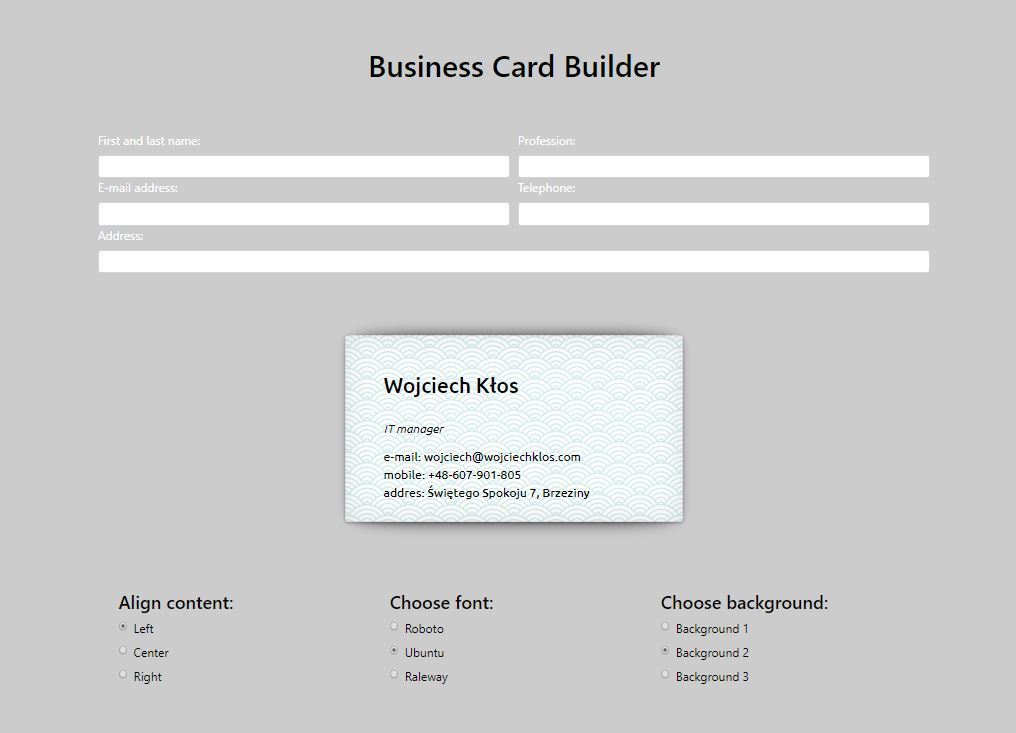
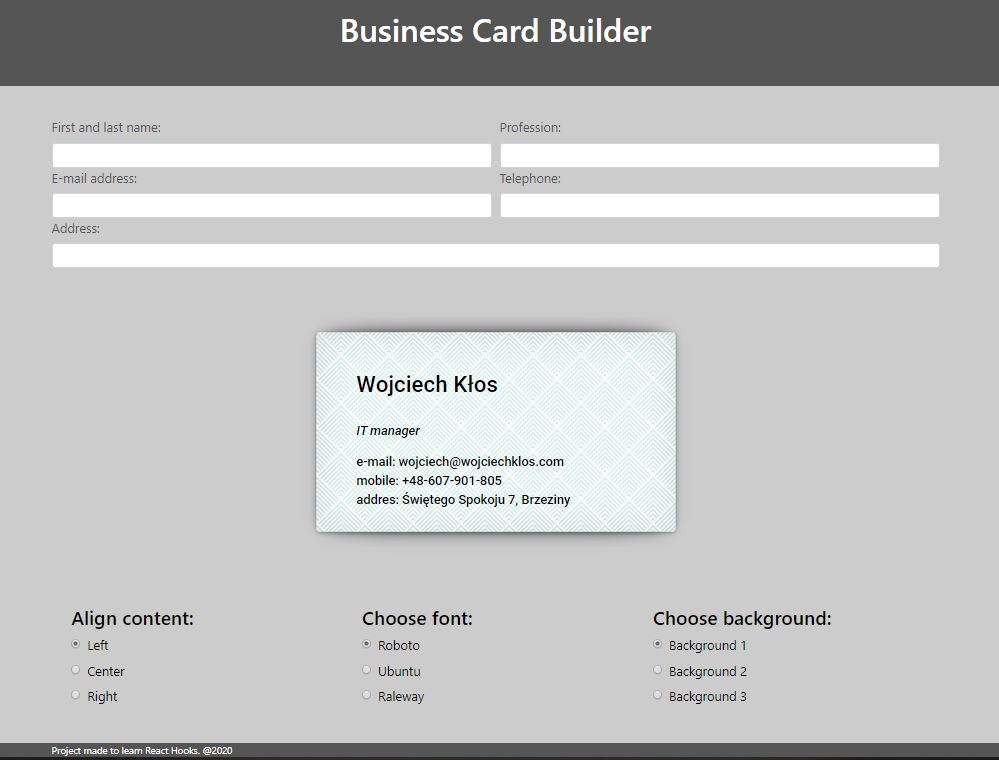
"added footer"

diff --git a/src/components/App.js b/src/components/App.js
@@ -1,25 +1,21 @@
-import React from 'react';
-import Store from './Store'
+import React from "react";
+import Store from "./Store";
 import Card from "./Card";
 import UserForm from "./UserForm";
-import HeaderApp from "./HeaderApp";
-
-
+import AppHeader from "./AppHeader";
+import AppFooter from "./AppFooter";
 
 class App extends React.Component {
-
-
-    render() {
-        return (
-
-            <Store>
-                <HeaderApp/>
-                <UserForm/>
-                <Card/>
-            </Store>
-        );
-    }
+  render() {
+    return (
+      <Store>
+        <AppHeader />
+        <UserForm />
+        <Card />
+        <AppFooter />
+      </Store>
+    );
+  }
 }
 
 export default App;
-

diff --git a/src/index.css b/src/index.css
@@ -6,7 +6,7 @@ body {
     -webkit-font-smoothing: antialiased;
     -moz-osx-font-smoothing: grayscale;
     background-color: #ccc;
-    color: #fff;
+    color: #555555;
 }
 
 code {
@@ -14,9 +14,21 @@ code {
     monospace;
 }
 
-.headerApp  {
-    margin: 3%;
+header {
+    background-color: #555555;
+    margin: 0 auto;
     text-align: center;
-    color: #000;
+    color: #fff;
+    padding: 2%;
 }
 
+.userForm {
+    margin-top: 2%;
+}
+
+footer {
+    background-color: #555555;
+    text-align: left;
+    color: #fff;
+    font-size: 0.75em;
+}

diff --git a/src/components/AppHeader.js b/src/components/AppHeader.js
@@ -1,11 +1,11 @@
 import React from 'react';
 
-function HeaderApp(props) {
+function AppHeader(props) {
     return (
-        <header className="headerApp">
+        <header>
             <h1>Business Card Builder</h1>
         </header>
     );
 }
 
-export default HeaderApp;
+export default AppHeader;

diff --git a/src/components/AppFooter.js b/src/components/AppFooter.js
@@ -1,0 +1,12 @@
+import React from "react";
+import { Col, Container, Row } from "react-bootstrap";
+
+function AppFooter(props) {
+  return (
+    <footer>
+      <Container>Project made to learn React Hooks. @2020</Container>
+    </footer>
+  );
+}
+
+export default AppFooter;

diff --git a/src/components/UserForm.js b/src/components/UserForm.js
@@ -21,7 +21,7 @@ function UserForm(props) {
     }
 
     return (
-        <Container>
+        <Container className="userForm">
             <Form onSubmit={handleSubmit}  >
                 <Form.Row>
                     <Col>
